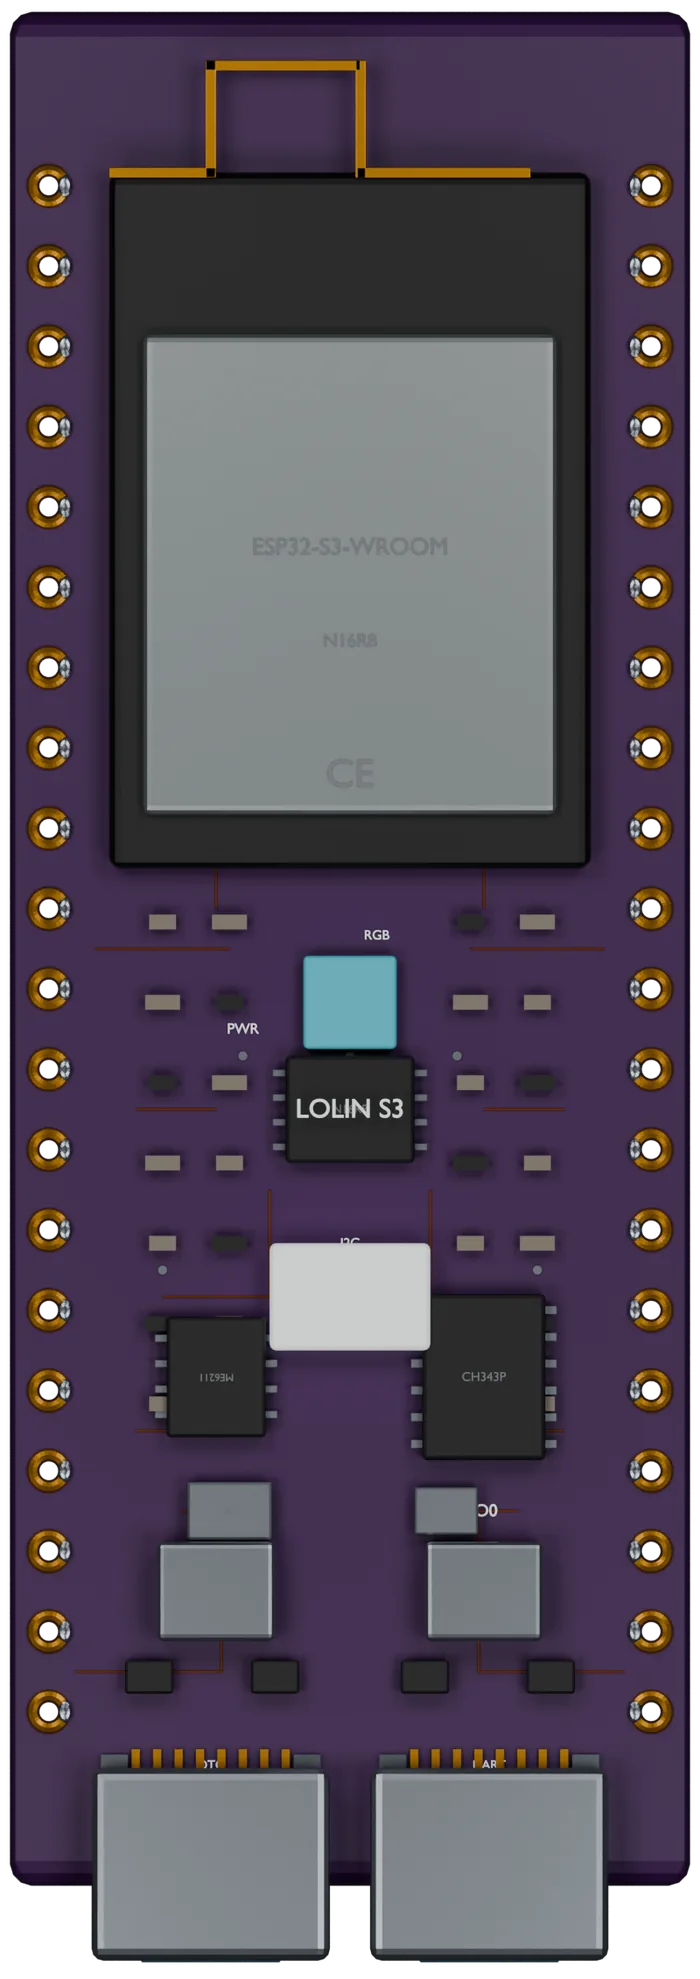
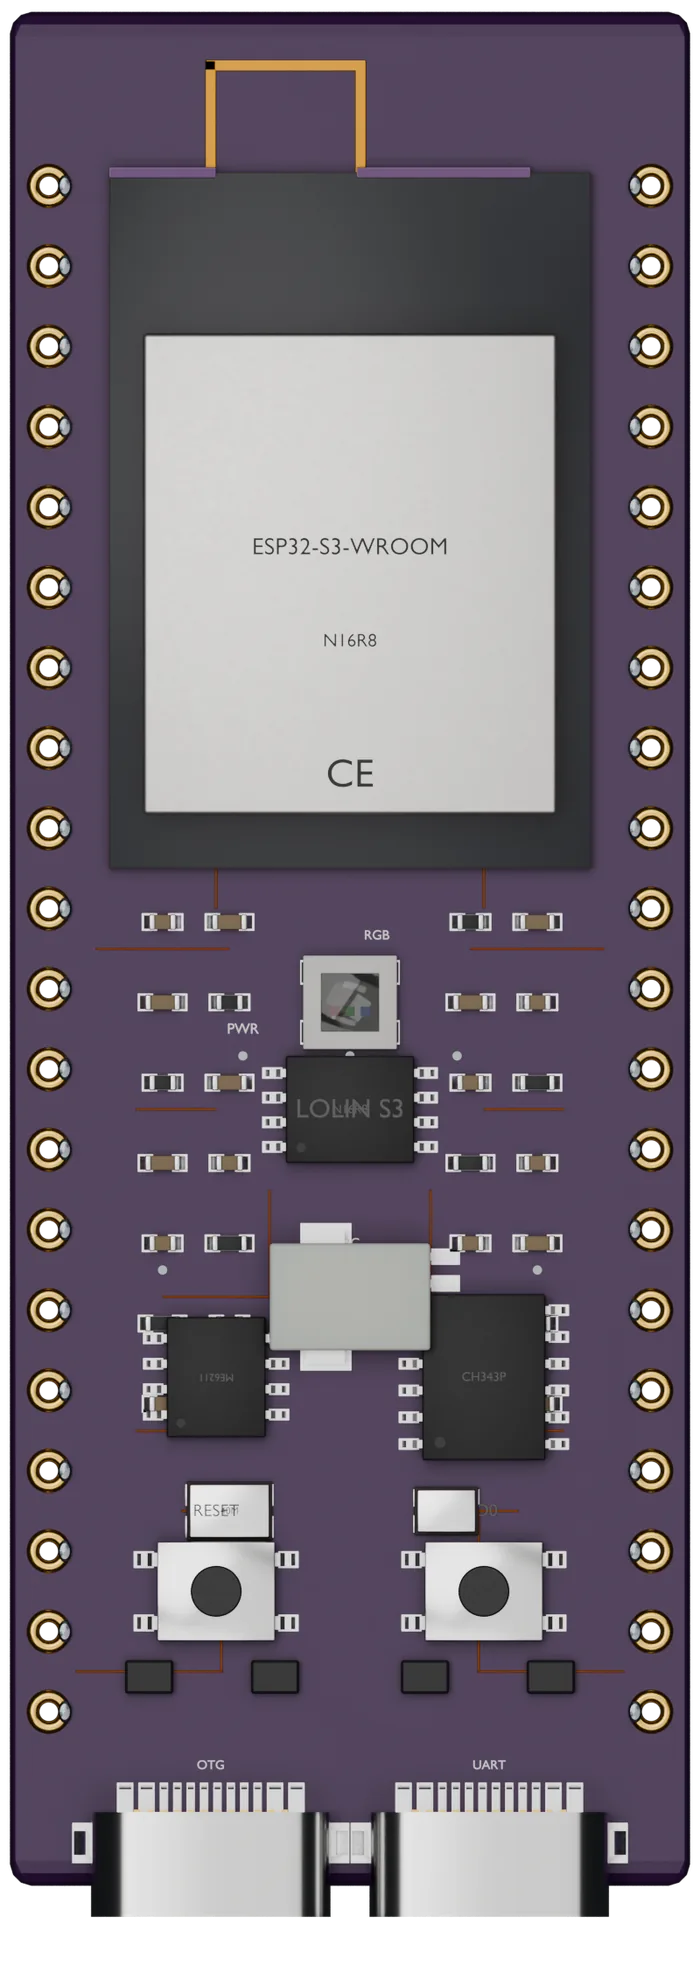
feat(hardware): render the ESP boards from full 3D rebuilds
The 27 ESP controller boards were modelled for a straight-down camera only:
parts floated 0.1-0.5 mm above the PCB and leads hung in mid-air. They are
now rebuilt in the Blender asset workspace so they hold up from any angle:
gull-wing and QFN packages with solder fillets, wrap-around passives,
castellated or land-grid modules with real shield cans, stadium USB-C
receptacles, tact switches, crystals, chip antennas and plated barrels.

Camera, plated-hole centres, hole radius and pin labels are unchanged, and
pixel QA confirms every header pad matches the previous render. Where a
USB-C hung several millimetres past the board edge it now overhangs about
1 mm, so the six Build Diagram usbPoint values move with their receptacles.

diff --git a/src/components/BuildDiagram/controllerGeometry.ts b/src/components/BuildDiagram/controllerGeometry.ts
@@ -82,8 +82,9 @@ const CONTROLLER_SPECS: Record<string, ControllerRenderSpec> = {
     pinsPerRail: 22, holeRadiusPx: 15.5, leftPrefix: 'j1', rightPrefix: 'j3',
     powerAnchors: { v3v3: 'j1-1', ground: 'j3-22' },
     // The UART port, not the native-USB one: that's the port this app's upload
-    // path drives, so it's the one a builder will have a cable in.
-    usbPoint: { x: 224.717, y: 2183.621 },
+    // path drives, so it's the one a builder will have a cable in. The rebuilt
+    // model seats both receptacles 1.5 mm past the edge instead of 7.7 mm.
+    usbPoint: { x: 224.717, y: 1991.275 },
     shortLabel: 'ESP32-S3 DevKitC-1',
   },
   // 20 + 20 rails. Pad rows are the model's own rail-label Y coordinates, which
@@ -97,8 +98,9 @@ const CONTROLLER_SPECS: Record<string, ControllerRenderSpec> = {
     leftPinX: 55.7763, rightPinX: 744.2237, firstPinY: 211.8, lastPinY: 1955.8,
     pinsPerRail: 20, holeRadiusPx: 10.7, leftPrefix: 'left', rightPrefix: 'right',
     powerAnchors: { v3v3: 'left-1', ground: 'right-1' },
-    // The UART port on the right, not the OTG port on the left.
-    usbPoint: { x: 560, y: 2180 },
+    // The UART port on the right, not the OTG port on the left; 1.7 mm further
+    // onto the board since the rebuild.
+    usbPoint: { x: 560, y: 2127.984 },
     shortLabel: 'LOLIN S3',
   },
   // 7 + 7 rails on a 111.817px pitch, supplied with the render and checked
@@ -127,8 +129,9 @@ const CONTROLLER_SPECS: Record<string, ControllerRenderSpec> = {
     // 3V3 tops the left rail and GND ends the right, so the two stubs leave
     // opposite edges and opposite ends of the board.
     powerAnchors: { v3v3: 'left-1', ground: 'right-22' },
-    // The COM port: the one this app's upload path drives.
-    usbPoint: { x: 253.674, y: 1757.925 },
+    // The COM port: the one this app's upload path drives. Centre of its
+    // receptacle, which the rebuild seats 2 mm further onto the board.
+    usbPoint: { x: 253.674, y: 1774.53 },
     shortLabel: 'ESP32-S3 N16R8',
   },
   // 19 + 19 rails on a 71.536px pitch. Geometry projected from the model, and
@@ -142,7 +145,8 @@ const CONTROLLER_SPECS: Record<string, ControllerRenderSpec> = {
     // Row 1 of each rail: 3V3 on the left, GND on the right, so the two stubs
     // leave opposite edges at the same height.
     powerAnchors: { v3v3: 'left-1', ground: 'right-1' },
-    usbPoint: { x: 400, y: 1699.13 },
+    // The receptacle overhangs the edge by 1.1 mm, as a real one does, not 5.5.
+    usbPoint: { x: 400, y: 1574.927 },
     shortLabel: 'ESP32 DevKit 38-pin',
   },
   // 15 + 15 rails on a 72.367px pitch sharing rows, rail centres symmetric
@@ -157,7 +161,8 @@ const CONTROLLER_SPECS: Record<string, ControllerRenderSpec> = {
     // the right rail they would be adjacent pads, close enough for the ground
     // symbol's bars to run into the 3V3 stub.
     powerAnchors: { v3v3: 'right-15', ground: 'left-14' },
-    usbPoint: { x: 400, y: 1612.646 },
+    // Overhangs the edge by 1.1 mm since the rebuild, not 5.5.
+    usbPoint: { x: 400, y: 1488.817 },
     shortLabel: 'ESP32 DevKit v1',
   },
 }
